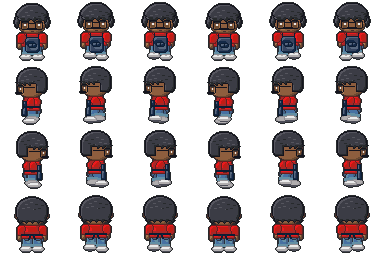
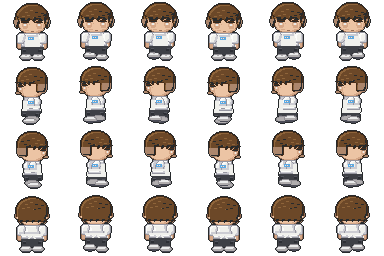
Rename the bike shop Moto78 with a chrome sign, and make its owner Bill Rothon
The general bike shop is Moto78: a chrome MOTO78 logo on a black board (tools/art/moto78.py draws it), and the building, door, map and interior titles, the shop panel, the journal and Paul's directions follow. The owner is Bill Rothon, a white middle-aged man with trimmed sides and a smart top, in a white Moto78 T-shirt and black combat trousers; the old owner's face moves to the Riverside Arena track official (npc-17-track-official in the manifest). Bill introduces himself and says he races, Jedrick gets a racing line too, and Bill takes Jordan Pike's place in the rider pool. The manifest's titles catch up with the earlier renames, and the Home Town map's hash follows.

Claude-Session: https://claude.ai/code/session_0112bA7bW8SkGFjFEFc6DWDg

diff --git a/tests/buildings.test.ts b/tests/buildings.test.ts
@@ -10,8 +10,8 @@ const maps = loadMaps();
 const T = 64;
 
 /** The Home Town map file as it stands (Alpha v1: 2×2 road exits and the local racer outside the garage). */
-// Updated for the Used Motors building and its seller (Boss, 28 Oct 2026), the garage renamed Phoenix MX and Used Motors renamed Nicholls Used Motors (29 Oct 2026).
[1 lines of base64/hex data omitted]
+// Updated for the Used Motors building and its seller (Boss, 28 Oct 2026), the garage renamed Phoenix MX and Used Motors renamed Nicholls Used Motors and the bike shop renamed Moto78 (29 Oct 2026).
[1 lines of base64/hex data omitted]
 
 function pngSize(rel: string): [number, number] {
   const b = fs.readFileSync(`public/assets/${rel}`);

diff --git a/tools/art/moto78.py b/tools/art/moto78.py
@@ -1,0 +1,182 @@
+"""Moto78 (Boss, 29 Oct 2026): the bike shop's chrome sign and Bill Rothon, its owner.
+
+The old shop owner's sheets move to npc-17-track-official (a track official's new face), and the
+shop owner's sheets become Bill: a white middle-aged man, trimmed sides and a smart top of brown
+hair, no glasses, a white Moto78 T-shirt and black combat trousers. The sign is the Moto78 logo: slanted
+chrome letters with a dark edge and a light-blue rim, MOTO78 in one run. Writes the sheets in
+place and previews:
+
+    python3 tools/art/moto78.py <repo> <preview-dir>
+"""
+import shutil
+import sys
+from pathlib import Path
+
+from PIL import Image, ImageDraw, ImageFont
+
+OUTLINE = (39, 42, 44)
+HAIR_OLD = {(20, 20, 30): 'dark', (59, 60, 69): 'mid', (85, 85, 94): 'hi'}
+HAIR = {'dark': (70, 44, 24), 'mid': (108, 72, 40), 'hi': (142, 100, 58)}
+FADE = (172, 134, 108)
+SKIN = {(142, 94, 62): (236, 196, 164), (107, 74, 49): (214, 168, 136), (71, 48, 45): (150, 110, 86), (168, 119, 80): (214, 168, 136)}
+RED = {(194, 28, 21): 'mid', (238, 25, 29): 'hi', (168, 39, 39): 'shade', (100, 32, 31): 'dark'}
+BAG = {(13, 29, 51), (88, 104, 127), (54, 69, 96), (20, 41, 71), (71, 113, 162), (41, 47, 61), (68, 98, 134)}
+TROUSERS_OLD = {(99, 143, 164)}
+SHIRT = {'mid': (240, 240, 236), 'hi': (252, 252, 250), 'shade': (204, 204, 210), 'dark': (150, 150, 160)}
+COMBO = {'mid': (62, 64, 70), 'shade': (44, 46, 52), 'hi': (84, 86, 94)}
+# The chest mark: a light-blue rimmed chrome bar, Moto78's logo at shirt size.
+LB, SV, GR = (90, 170, 230), (230, 232, 236), (150, 154, 162)
+MARK = [
+    [LB, LB, LB, LB, LB, LB],
+    [LB, SV, GR, SV, GR, LB],
+    [LB, LB, LB, LB, LB, LB],
+]
+
+
+def bill(sheet: Image.Image, fw=64, fh=64) -> Image.Image:
+    out = sheet.copy()
+    px = out.load()
+    for fy in range(0, sheet.height, fh):
+        for fx in range(0, sheet.width, fw):
+            frame(px, fx, fy, fw, fh)
+    return out
+
+
+def frame(px, fx, fy, fw, fh):
+    rows = range(fy, fy + fh)
+    cols = range(fx, fx + fw)
+    rgb = lambda x, y: px[x, y][:3]
+    body = [y for y in rows if any(rgb(x, y) in RED for x in cols)]
+    skin = [y for y in rows if any(rgb(x, y) in SKIN for x in cols)]
+    if not body or not skin:
+        return
+    face_top = skin[0]
+    # The sides are trimmed: hair beside the face, from the brow down, is a short fade.
+    face_span = {}
+    for y in range(face_top, body[0]):
+        xs = [x for x in cols if rgb(x, y) in SKIN or rgb(x, y) in {(234, 235, 235), (20, 20, 30)} and any(rgb(x + k, y) in SKIN for k in (-2, -1, 1, 2) if fx <= x + k < fx + fw)]
+        if xs:
+            face_span[y] = (min(xs), max(xs))
+    trousers_top = min((y for y in rows if any(rgb(x, y) in TROUSERS_OLD for x in cols)), default=body[-1] + 1)
+    # No glasses: the frame's dark pixels inside the face, round and under the eyes, are skin.
+    for y in range(face_top + 3, min(face_top + 10, body[0])):
+        span = face_span.get(y)
+        if not span:
+            continue
+        for x in range(span[0] + 1, span[1]):
+            if rgb(x, y) == (20, 20, 30):
+                px[x, y] = (236, 196, 164, 255)
+    for y in rows:
+        for x in cols:
+            c = rgb(x, y)
+            if not px[x, y][3]:
+                continue
+            if c in SKIN:
+                px[x, y] = SKIN[c] + (255,)
+            elif c in HAIR_OLD:
+                span = face_span.get(y)
+                if y >= face_top and span and (x < span[0] - 1 or x > span[1] + 1) and y < body[0]:
+                    px[x, y] = FADE + (255,)
+                elif y < body[0]:
+                    px[x, y] = HAIR[HAIR_OLD[c]] + (255,)
+            elif c in RED:
+                px[x, y] = SHIRT[RED[c]] + (255,)
+            elif c in BAG:
+                px[x, y] = (SHIRT['mid'] if y < trousers_top else COMBO['mid']) + (255,)
+            elif c in TROUSERS_OLD:
+                px[x, y] = COMBO['mid'] + (255,)
+    # Combat trousers: a darker crease down the middle and a pocket flap on each leg.
+    legs = [y for y in range(trousers_top, fy + fh) if any(rgb(x, y) == COMBO['mid'] for x in cols)]
+    if legs:
+        for y in legs[2:5]:
+            xs = [x for x in cols if rgb(x, y) == COMBO['mid']]
+            if len(xs) >= 10:
+                for x in (xs[1], xs[2], xs[3], xs[-4], xs[-3], xs[-2]):
+                    px[x, y] = COMBO['hi' if y == legs[2] else 'shade'] + (255,)
+    # The chest mark on front frames (the eyes show).
+    eyes = any(rgb(x, y) == (234, 235, 235) for y in range(face_top, body[0]) for x in cols)
+    if eyes:
+        y0 = body[0] + 4
+        xs = [x for x in cols if rgb(x, y0 + 1) in SHIRT.values()]
+        if xs:
+            cx = (min(xs) + max(xs)) // 2
+            for j, row in enumerate(MARK):
+                for i, c in enumerate(row):
+                    if rgb(cx - 3 + i, y0 + j) in SHIRT.values():
+                        px[cx - 3 + i, y0 + j] = c + (255,)
+
+
+def logo(w: int, h: int) -> Image.Image:
+    """MOTO78 in slanted chrome letters: light-blue rim, dark edge, silver that darkens to the base."""
+    S = 4
+    big = Image.new('RGBA', (w * S, h * S), (0, 0, 0, 0))
+    d = ImageDraw.Draw(big)
+    text = 'MOTO78'
+    size = int(h * S * 0.9)
+    while size > 8:
+        font = ImageFont.truetype('/usr/share/fonts/truetype/freefont/FreeSansBoldOblique.ttf', size)
+        box = d.textbbox((0, 0), text, font=font)
+        if box[2] - box[0] <= w * S - 10 * S and box[3] - box[1] <= h * S - 8 * S:
+            break
+        size -= 1
+    tx = (w * S - (box[2] - box[0])) / 2 - box[0]
+    ty = (h * S - (box[3] - box[1])) / 2 - box[1]
+    for r, col in ((3 * S, (70, 150, 220, 255)), (int(1.5 * S), (24, 26, 30, 255))):
+        for dx in range(-r, r + 1):
+            for dy in range(-r, r + 1):
+                if dx * dx + dy * dy <= r * r:
+                    d.text((tx + dx, ty + dy), text, font=font, fill=col)
+    mask = Image.new('L', big.size, 0)
+    ImageDraw.Draw(mask).text((tx, ty), text, font=font, fill=255)
+    fill = Image.new('RGBA', big.size, (0, 0, 0, 0))
+    fp = fill.load()
+    mp = mask.load()
+    y0, y1 = int(ty + box[1]), int(ty + box[3])
+    for yy in range(y0, y1 + 1):
+        t = (yy - y0) / max(1, y1 - y0)
+        tone = (250, 250, 252) if t < 0.3 else (205, 208, 214) if t < 0.5 else (120, 124, 132) if t < 0.58 else (225, 227, 232) if t < 0.8 else (160, 164, 172)
+        for xx in range(big.width):
+            if mp[xx, yy] > 128:
+                fp[xx, yy] = tone + (255,)
+    big.alpha_composite(fill)
+    # The logo's letters are wide: stretch the run to most of the board.
+    run = big.crop((int(tx + box[0]) - 4 * S, 0, int(tx + box[2]) + 4 * S, h * S))
+    target = int(w * S * 0.8)
+    run = run.resize((target, h * S), Image.LANCZOS)
+    out = Image.new('RGBA', big.size, (0, 0, 0, 0))
+    out.alpha_composite(run, ((w * S - target) // 2, 0))
+    return out.resize((w, h), Image.LANCZOS)
+
+
+def main(repo: Path, preview: Path):
+    npcs = repo / 'public/assets/art/characters/npcs'
+    # The old shop owner becomes a track official's face.
+    for suffix in ('.png', '.act.png'):
+        src = npcs / f'npc-03-bike-shop-owner{suffix}'
+        dst = npcs / f'npc-17-track-official{suffix}'
+        if not dst.exists():
+            shutil.copy(src, dst)
+        out = bill(Image.open(src).convert('RGBA'))
+        out.save(src)
+    sheet_path = repo / 'public/assets/art/buildings/sheets/buildings-exterior-v3.png'
+    sheet = Image.open(sheet_path).convert('RGBA')
+    # The bike shop's sign board (the building's crop is 0,320 512x320): the board stays, the logo goes on it.
+    x0, y0, x1, y1 = 68, 320 + 184, 382, 320 + 216
+    d = ImageDraw.Draw(sheet)
+    d.rectangle((x0, y0, x1, y1), fill=(24, 26, 30, 255))
+    sheet.alpha_composite(logo(x1 - x0 + 1, y1 - y0 + 1), (x0, y0))
+    sheet.save(sheet_path)
+    crop = sheet.crop((0, 320, 512, 640))
+    crop.resize((crop.width * 2, crop.height * 2), Image.NEAREST).save(preview / 'moto78-shop.png')
+    v = Image.open(npcs / 'npc-03-bike-shop-owner.png')
+    a = Image.open(npcs / 'npc-03-bike-shop-owner.act.png')
+    out = Image.new('RGBA', (64 * 6 * 6, 64 * 6), (90, 90, 90, 255))
+    fs = [v.crop((0, dd * 64, 64, (dd + 1) * 64)) for dd in range(4)] + [a.crop((i * 64, 0, (i + 1) * 64, 64)) for i in (1, 2)]
+    for i, f in enumerate(fs):
+        f = f.resize((384, 384), Image.NEAREST)
+        out.paste(f, (i * 384, 0), f)
+    out.save(preview / 'bill-rothon.png')
+
+
+if __name__ == '__main__':
+    main(Path(sys.argv[1]), Path(sys.argv[2]))

diff --git a/README.md b/README.md
@@ -14,7 +14,7 @@ The game loop: **earn money, keep the bike going, race, level up, repeat.**
 
 1. **Start a career** in Home Town with a broken 50cc. Paul Phoenix, the mechanic at Phoenix MX, gets it running in the tutorial and teaches the basics.
 2. **Earn money** on shifts in the Industrial Zone: the fabrication shop (frame brackets) and the engine rebuilder (pistons). Pay is per part made, and is boosted 10× while testing.
-3. **Look after the bike.** Every lap wears its parts, and a part at 0% breaks. Buy new or better-grade parts at the general bike shop and the tyre shop in Home Town (fitted free, or kept as spares in your bag), and pay the local garage to repair or fit them.
+3. **Look after the bike.** Every lap wears its parts, and a part at 0% breaks. Buy new or better-grade parts at Moto78 (the bike shop) and the tyre shop in Home Town (fitted free, or kept as spares in your bag), and pay the local garage to repair or fit them.
 4. **Get a van** and load your bike to reach the tracks on the venue road.
 5. **Race.** Three venues are open: **Farmland MX**, **Riverside Arena** and **Longmoor Enduro**, each with a track official at the race office. A race day is two motos of 5 laps against 15 riders, including the Local Champion: £20 entry (your first race day is free), gate picks, a start official and a pit board, with prize money to 10th in each moto. Free practice is 25% of the entry, and the backyard loop at home is free.
 6. **Win the badge.** After your first race day, enter the **Local Champion Championship** at any race office: three rounds, one at each track, against the same 16 riders, with qualifying and points for every moto. Win it for the Area 1 badge, which opens the six-round **Area 1 Championship**.
@@ -204,7 +204,7 @@ Following Boss's brief "Seven Vans, Vehicle Gameplay Integration and Bike Model 
 
 Following GDD 8.3 to 8.5 and Spec 7.4 and 14.4 to 14.6. Shops open once the opening chain is done; talk to the shopkeeper or click their counter.
 
-- **General bike shop:** top end, bottom end, intake and exhaust, drivetrain, forks, shock, and bodywork and controls. **Tyres and wheels:** wheels and tyres, and brakes. Both stock Grades 1 to 3 for 50cc and 65cc (Spec 14.5a). Grade 1 is always on the shelf; Grade 2 and 3 parts come and go, and each one sells out until the stock changes. Stock changes after 3 race days or 10 other activities (finished shift batches and practice sessions), Spec 14.6. Frames aren't sold: they come from your sponsor or the class dealer.
+- **Moto78 (the general bike shop, Bill Rothon's; Boss, 29 Oct 2026):** top end, bottom end, intake and exhaust, drivetrain, forks, shock, and bodywork and controls. **Tyres and wheels:** wheels and tyres, and brakes. Both stock Grades 1 to 3 for 50cc and 65cc (Spec 14.5a). Grade 1 is always on the shelf; Grade 2 and 3 parts come and go, and each one sells out until the stock changes. Stock changes after 3 race days or 10 other activities (finished shift batches and practice sessions), Spec 14.6. Frames aren't sold: they come from your sponsor or the class dealer.
 - **Prices** follow Spec 14.4: each grade costs 2× the one below. A Grade 1 top end is £35, tyres £25, forks £120. New parts are at 100% with no modifiers. The buy box shows how each bike stat would change.
 - **Buy and fit** (the shop fits it free) or **buy as a spare**. A part you take off goes in your bag; a broken one goes straight to the dump. You can carry 20 spares.
 - **Sell** spares at either shop: price × (20% + 40% × condition) × demand (0.9 to 1.1, new at each stock change), and half that at the shop that doesn't specialise in the part. Broken parts can't be sold.
